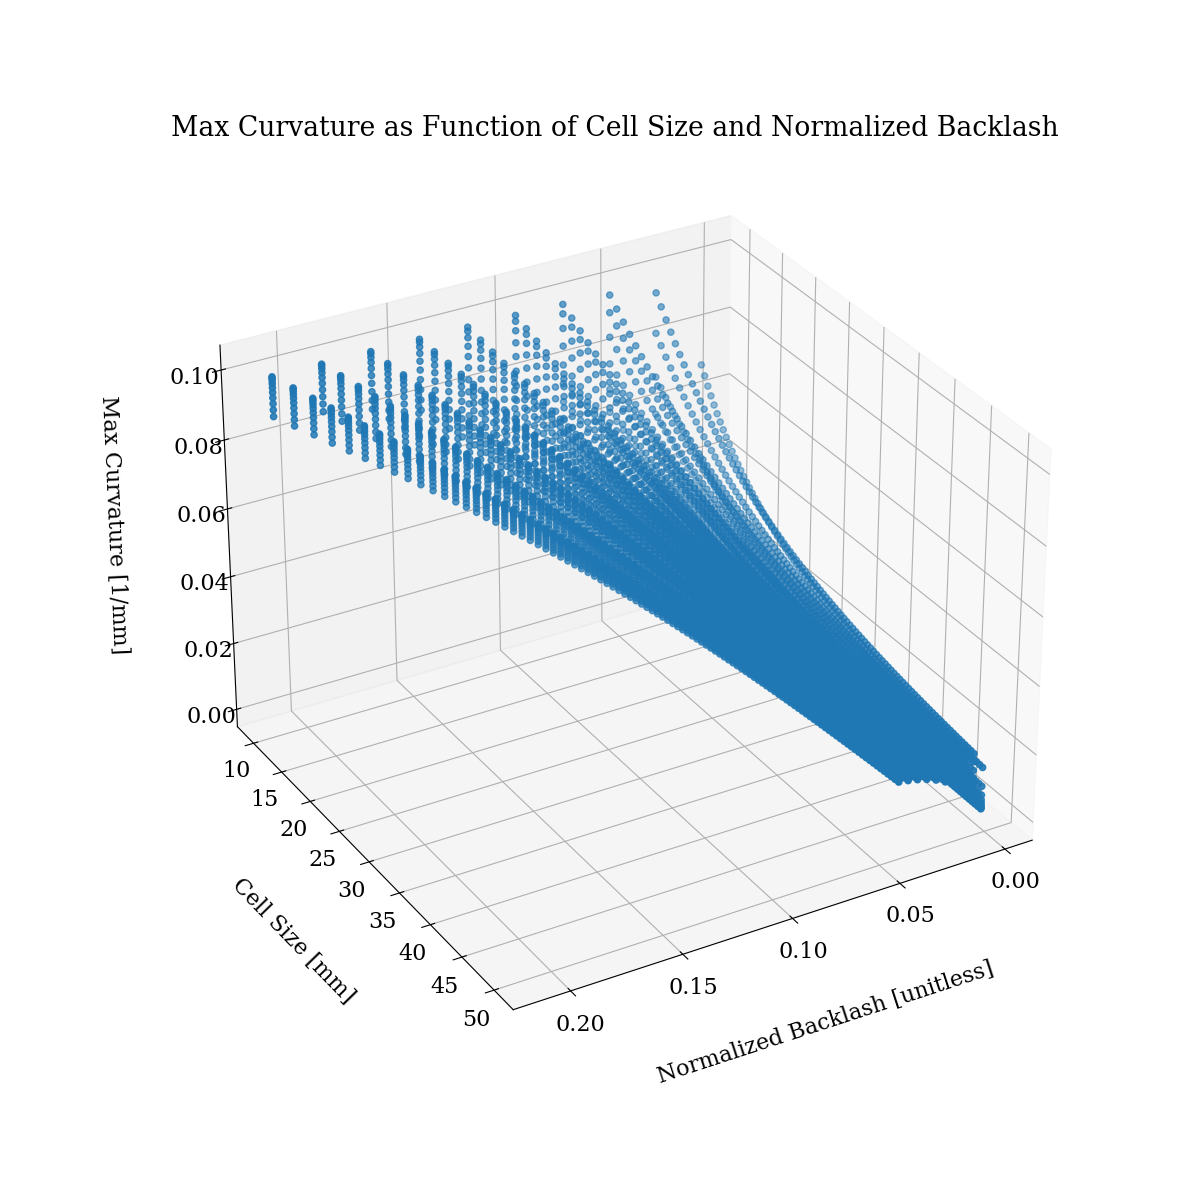
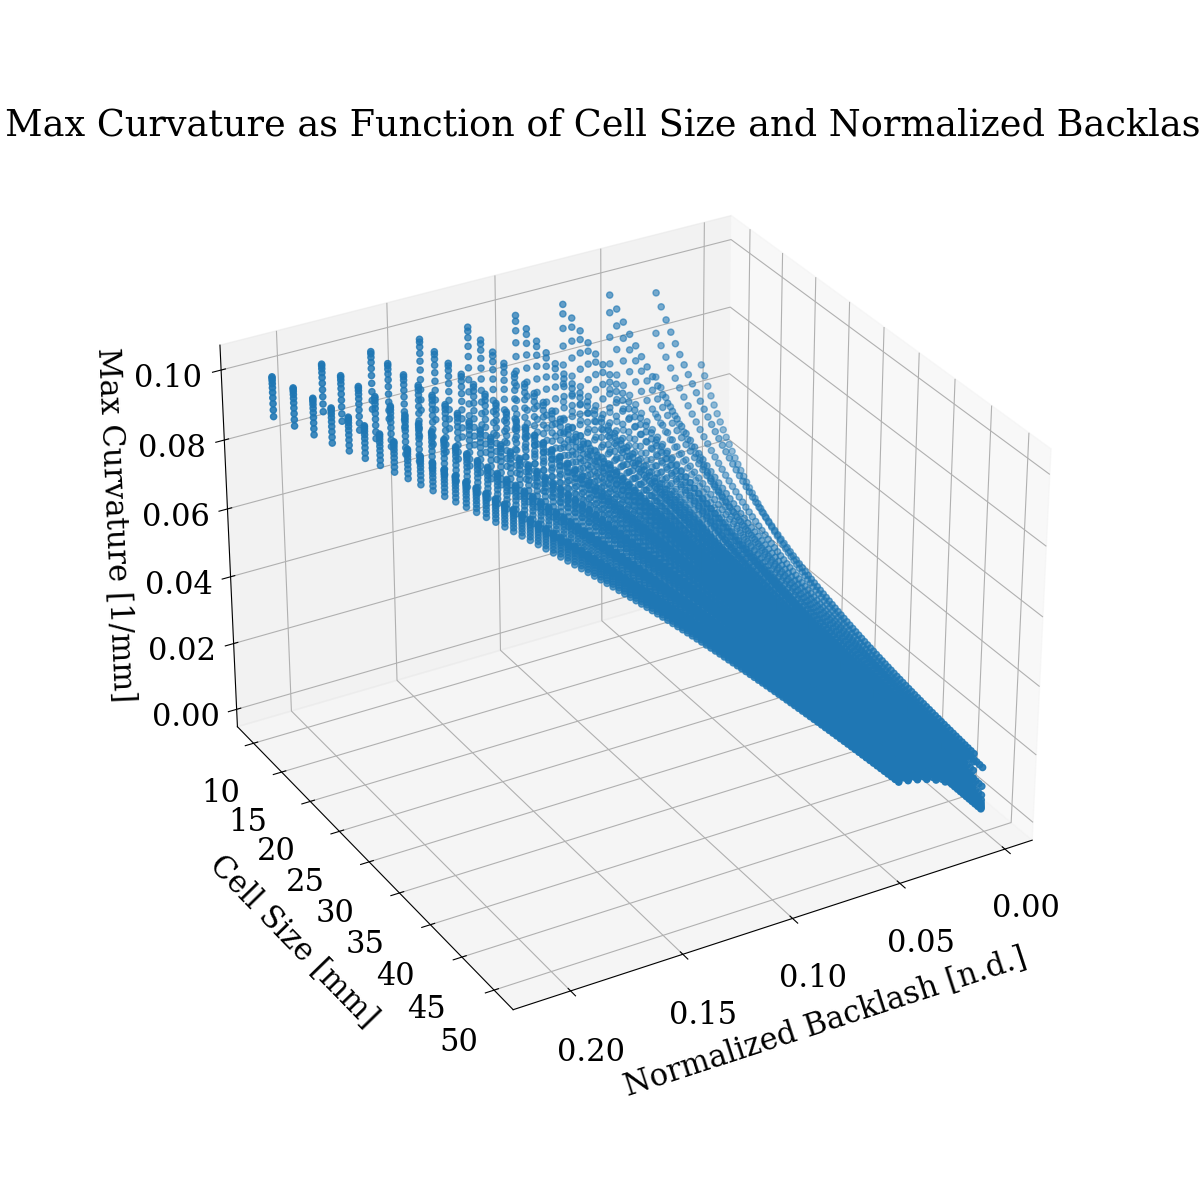
backlash plots

diff --git a/main_airfoil.py b/main_airfoil.py
@@ -7,7 +7,7 @@ import matplotlib.animation as animation
 import re
 
 font = {'family' : 'serif',
-        'size'   : 16}
+        'size'   : 22}
 csfont = {'fontname':'Helvetica'}
 
 matplotlib.rc('font', **font)
@@ -262,12 +262,13 @@ def plot_b_L_maxK(b_list, L_list, max_K_list):
     ax = fig.add_subplot(projection='3d')
     ax.scatter(b_list, L_list, max_K_list)
     ax.set_title("Max Curvature as Function of Cell Size and Normalized Backlash")
-    ax.set_xlabel('Normalized Backlash [unitless]')
+    ax.set_xlabel('Normalized Backlash [n.d.]')
     ax.set_ylabel('Cell Size [mm]')
     ax.set_zlabel('Max Curvature [1/mm]')
     ax.xaxis.labelpad = 30
     ax.yaxis.labelpad = 30
     ax.zaxis.labelpad = 30
+    ax.tick_params(axis='both', which='major', pad=15)
     ax.view_init(elev=30, azim=60, roll=0)
     plt.savefig("./figures/max_curvature.png")
     plt.show()
@@ -286,13 +287,14 @@ def plot_b_L_dieoff(b_list, L_list, do_list):
     fig = plt.figure(figsize=(12, 12))
     ax = fig.add_subplot(projection='3d')
     ax.scatter(b_list, L_list, do_list)
-    ax.set_title("Die-off Distance as Function of Cell Size and Normalized Backlash")
-    ax.set_xlabel('Normalized Backlash')
-    ax.set_ylabel('Cell Size')
-    ax.set_zlabel('Die-Off Distance')
+    ax.set_title("Die-off Distance as Function of Cell Size and Backlash")
+    ax.set_xlabel('Normalized Backlash [n.d.]')
+    ax.set_ylabel('Cell Size [mm]')
+    ax.set_zlabel('Die-Off Distance [mm]')
     ax.xaxis.labelpad = 30
     ax.yaxis.labelpad = 30
     ax.zaxis.labelpad = 30
+    ax.tick_params(axis='both', which='major', pad=15)
     plt.savefig("./figures/DO_distance.png")
     plt.show()
     plt.close()
@@ -343,8 +345,8 @@ if __name__ == '__main__':
     # Change data type for input array
     data_array = np.array(data)
     # Generate plots from the data
-    # plot_b_L_maxK(b_list=data_array[:, 3], L_list=data_array[:, 2], max_K_list=data_array[:, 4])
-    # plot_b_L_dieoff(b_list=data_array[:, 3], L_list=data_array[:, 2], do_list=data_array[:, 5], )
+    plot_b_L_maxK(b_list=data_array[:, 3], L_list=data_array[:, 2], max_K_list=data_array[:, 4])
+    plot_b_L_dieoff(b_list=data_array[:, 3], L_list=data_array[:, 2], do_list=data_array[:, 5], )
 
     data = False
     if data:
@@ -355,7 +357,7 @@ if __name__ == '__main__':
             alpha_values, t = get_airfoil_alpha_function(x=x_values, y=y_values)
             plot_airfoil_slope(x_values, a_values, y_values, alpha_values)
 
-    generated = True
+    generated = False
     if generated:
         # Gather plots of NACA profile based on mathematical model and gather alpha funcs
         for number in NACA_numbers:
